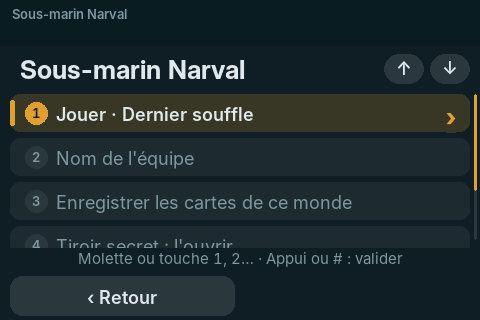
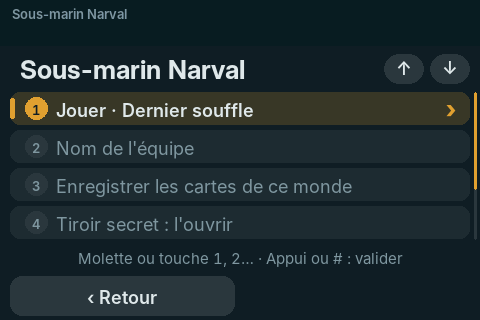
Menus : 4 lignes entières au-dessus de la ligne d'information (la dernière était cachée par le bouton Retour)
Claude-Session: https://claude.ai/code/session_01EFioQgckwzuG5fyWH251Fr

Changed region(s): [[0.0, 0.2812, 1.0, 0.7188], [0.0312, 0.75, 0.5, 0.7812]]

diff --git a/pupitre-des-enigmes/firmware/src/dessin.cpp b/pupitre-des-enigmes/firmware/src/dessin.cpp
@@ -12,6 +12,8 @@ namespace {
 
 constexpr int L = 480, H = 320;
 constexpr int Y_CORPS = 48, Y_INFO = 248, Y_ZONES = 272;
+// Les menus : 4 lignes qui tiennent entières au-dessus de la ligne d'information (Y_INFO).
+constexpr int MENU_H = 33, MENU_ECART = 5, MENU_Y0 = Y_CORPS + 44, MENU_VISIBLES = 4;
 constexpr int HAUT_CORPS = Y_INFO - Y_CORPS;
 // Le minuteur des épreuves, en haut à droite du corps.
 constexpr int MIN_X = 438, MIN_Y = 84, MIN_R = 26;
@@ -491,10 +493,10 @@ void Dessin::corpsMenu(const Vue& v) {
   int lt = v.tactile && v.menu.size() > 4 ? L - 140 : L - 40;
   ecrire(couper(v.titre, &polices::titre, lt), 20, Y_CORPS + 6, &polices::titre, pal_.texte, pal_.fond);
   const auto& lignes = v.menu;
-  const int hauteur = 38, y0 = Y_CORPS + 46, visibles = 4;
+  const int hauteur = MENU_H, y0 = MENU_Y0, visibles = MENU_VISIBLES;
   int debut = std::max(0, std::min(v.curseur - 1, static_cast<int>(lignes.size()) - visibles));
   for (int i = debut; i < static_cast<int>(lignes.size()) && i < debut + visibles; i++) {
-    int y = y0 + (i - debut) * (hauteur + 6);
+    int y = y0 + (i - debut) * (hauteur + MENU_ECART);
     bool actif = i == v.curseur;
     uint32_t fond = actif ? pal_.accentDoux : pal_.surface;
     g_->fillRoundRect(10, y, L - 20, hauteur, 10, c(fond));
@@ -503,11 +505,11 @@ void Dessin::corpsMenu(const Vue& v) {
     if (i < 9) {
       uint32_t pastilleFond = actif ? pal_.accent : pal_.surface2;
       g_->fillCircle(36, y + hauteur / 2, 11, c(pastilleFond));
-      ecrire(std::to_string(i + 1), 36, y + 11, &polices::petit, actif ? pal_.fond : pal_.doux, pastilleFond, 1);
+      ecrire(std::to_string(i + 1), 36, y + hauteur / 2 - 6, &polices::petit, actif ? pal_.fond : pal_.doux, pastilleFond, 1);
     }
-    ecrire(couper(lignes[i], &polices::texteGras, L - 100), 56, y + 9, actif ? &polices::texteGras : &polices::texte,
+    ecrire(couper(lignes[i], &polices::texteGras, L - 100), 56, y + hauteur / 2 - 9, actif ? &polices::texteGras : &polices::texte,
            actif ? pal_.texte : pal_.doux, fond);
-    if (actif) ecrire("›", L - 34, y + 7, &polices::titre, pal_.accent, fond);
+    if (actif) ecrire("›", L - 34, y + hauteur / 2 - 15, &polices::titre, pal_.accent, fond);
   }
   if (v.tactile && lignes.size() > static_cast<size_t>(visibles)) {  // défiler au doigt
     for (int k = 0; k < 2; k++) {
@@ -1040,7 +1042,7 @@ Toucher Dessin::cible(const Vue& v, int x, int y) const {
       t.type = Toucher::RETOUR;
       return t;
     case Vue::MENU: {
-      const int hauteur = 38, y0 = Y_CORPS + 46, visibles = 4;
+      const int hauteur = MENU_H, y0 = MENU_Y0, visibles = MENU_VISIBLES;
       int n = static_cast<int>(v.menu.size());
       if (n > visibles && y < y0 && x >= L - 100) {  // les flèches pour défiler
         t.type = Toucher::DEFILER;
@@ -1049,8 +1051,8 @@ Toucher Dessin::cible(const Vue& v, int x, int y) const {
       }
       int debut = std::max(0, std::min(v.curseur - 1, n - visibles));
       for (int i = debut; i < n && i < debut + visibles; i++) {
-        int yl = y0 + (i - debut) * (hauteur + 6);
-        if (y >= yl - 3 && y < yl + hauteur + 3 && y < Y_INFO) {
+        int yl = y0 + (i - debut) * (hauteur + MENU_ECART);
+        if (y >= yl - 2 && y < yl + hauteur + 3 && y < Y_INFO) {
           t.type = Toucher::LIGNE;
           t.ligne = i;
           return t;
